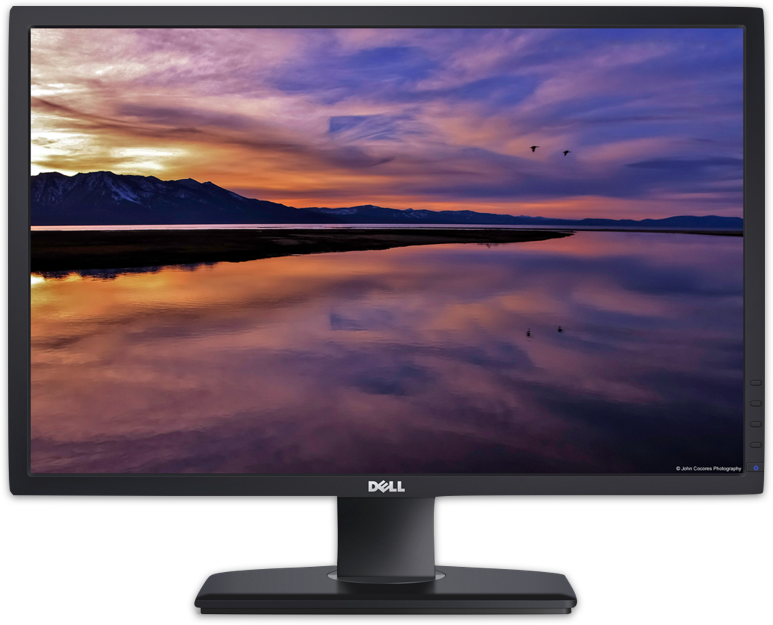
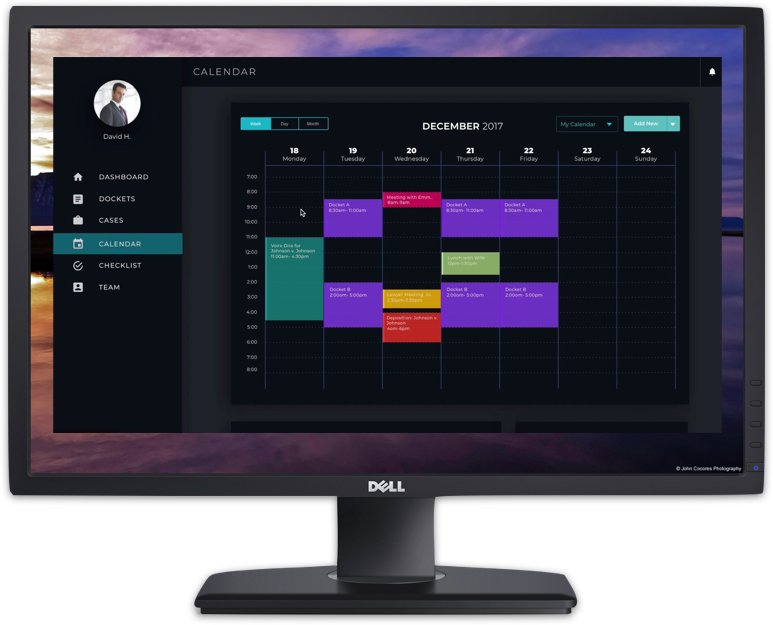
astraia 90% done

diff --git a/src/pages/astraia/index.js b/src/pages/astraia/index.js
@@ -177,6 +177,122 @@ const AstraiaPage = () => (
         </div>
       </section>
       <section className="segway">
+        <div className="finding-container">
+          <h4 className="finding-title">Finding One</h4>
+          <div className="finding-quote">
+          “It’s hard to manage and remember all that’s happening with cases”
+          </div>
+        </div>
+      </section>
+      <section className="flow-section one">
+        <div className="flow-container">
+          <div className="flow-image" style={{backgroundImage: `url(${FlowOneImage})`}}></div>
+          <div className="flow-description">
+            <h4 className="flow-title">Flow One: Adding a Case</h4>
+            <div className="flow-text">
+            <p>
+            Court clerks can work be working on upwards of 10 cases at a time and judges are working with multiple different court clerks all working on different cases. Both stakeholders are juggling multiple new cases as well as those that have been going on for years. This complex system of organizing and remembering multiple different cases, all at different parts of a trial, leads to forgetfulness and confusion between judges and court clerks. Which means valuable moments are being wasted, searching through files, remembering what the case is about, and figuring out where each case is on the timeline of a trial.
+            </p>
+            <p>
+            We made it easy and accessible for court clerks to add a case to Astraia. They can add references, tasks, notes, attach lawyers to the case and also give the ability to Judges to assign new cases to clerks of their choice.
+            </p>
+            </div>
+          </div>
+        </div>
+      </section>
+      <section className="segway">
+        <div className="finding-container">
+          <h4 className="finding-title">Finding Two</h4>
+          <div className="finding-quote" style={{ maxWidth: '943px'}}>
+          “It’s such a great way to communicate with my staff without having to send memos and paper back and forth while creating a really good trail so things don’t fall through the cracks.”
+          </div>
+        </div>
+      </section>
+      <section className="flow-section two">
+        <div className="flow-container">
+          <div className="flow-image" style={{backgroundImage: `url(${FlowTwoImage})`}}></div>
+          <div className="flow-description">
+            <h4 className="flow-title">Flow Two: Adding a Task</h4>
+            <div className="flow-text">
+            <p>
+            Creating a case is only part of the system of seamless communication and cutting down on wasted minutes. Some courts have already realized their need for checklist-like technology and have asked their IT departments to make custom checklist systems for them. The above quote is from Janet T. Neff, U.S. Western Michigan District Judge, explaining what a checklist helps her court accomplish. Out taks system allows tasks to be assigned to different stakeholders, prioritized, given due dates and added to specific cases so important information doesn’t fall through the cracks.
+            </p>
+            </div>
+          </div>
+        </div>
+      </section>
+      <section className="segway">
+        <div className="finding-container">
+          <h4 className="finding-title">Finding Three</h4>
+          <div className="finding-quote">
+          “Keeping track of references is essential because the use of reference databases are so expensive.”
+          </div>
+        </div>
+      </section>
+      <section className="flow-section three">
+        <div className="flow-container">
+          <div className="flow-image" style={{backgroundImage: `url(${FlowThreeImage})`}}></div>
+          <div className="flow-description">
+            <h4 className="flow-title">Flow Three: Adding a Reference to a Case</h4>
+            <div className="flow-text">
+            <p>
+            Interviewing a law clerk gave us insight into into their daily lives. Duties of a law clerk include researching cases and statutes, organizing that research into legal documents and then using those documents to write drafts with the corresponding judge. Learning that so much of their day involves researching on databases like LexisNexis and Westlaw, meant that it was imperative we gave law clerks the ability to add these references to cases and checklists. Searching on reference databases is one of the highest costs of the law and court system. By adding the ability to add a reference to a case, we assure that these references don’t get swept up in other trials, filings and memos, saving money for all parties involved.
+            </p>
+            </div>
+          </div>
+        </div>
+      </section>
+      <section className="segway">
+        <div className="finding-container">
+          <h4 className="finding-title">Finding Four</h4>
+          <div className="finding-quote">
+          “Not everyone is on the same page, meetings get changed or cancelled and people aren’t notified.”
+          </div>
+        </div>
+      </section>
+      <section className="flow-section four">
+        <div className="flow-container">
+          <div className="flow-image" style={{backgroundImage: `url(${FlowFourImage})`}}></div>
+          <div className="flow-description">
+            <h4 className="flow-title">Flow Four: Adding an Event to the Calendar</h4>
+            <div className="flow-text">
+            <p>
+            Communication was a common pain point that we frequently heard about in our primary research phase. One clerk told us that meetings often get changed, but not all parties are notified, meaning people showed up to wrong rooms, on different days or not at all. This confusion is yet another stressor within an already environment, adding to the decision fatigue judges and clerks already face during their long and tedious days.
+            </p>
+            <p>
+            Astraia gives clerks and judges the ability to add events to their calendar, notify stakeholders within the system of the event and also send invites to lawyers or other parties not within the system through the integration of email platforms like Microsoft Outlook. By having the calendar integrated into Astraia, judges and clerks can be reminded of what tasks need to be done before a meeting, be easily reminded what the case is corresponding to the specific meeting and update all parties involved seamlessly when something is changed.
+            </p>
+            </div>
+          </div>
+        </div>
+      </section>
+      <section className="reflections-section">
+        <div className="purple-spacer-container">
+          <div className="purple-spacer"></div>
+        </div>
+        <div className="reflections-container">
+          <span className="reflections-title">Reflections</span>
+          <span className="horizontal-line"></span>
+          <div className="article-container">
+            <h4 className="title">Future Steps</h4>
+            <p className="text">
+            There are barriers and obstacles when it comes to getting technology to be accepted in the court systems, and we we would address that by going to court coordinators and telling them about the benefit of our software, since they are the managers of their respective courts.
+            </p>
+            <p className="text">
+            We would also push for this to become responsive for tablets and phones, as well as automate case filings into the system so efficiency is maximized and manual input would no longer be required. The integration of LexisNexis, the premier reference database for lawyers and clerks would be an essential add to Astraia’s reference widget as well.
+            </p>
+            <p className="text">
+            Finally, we would add new roles to the system, for the court coordinator to oversee everything and help simplify their management tasks. Our goal would be to make a more robust communication application for the municipal courts.
+            </p>
+            <h4 className="title">Reflections</h4>
+            <p className="text">
+            My team and I set off in a very broad and intimidating challenge space and were able to find our way and create something we were proud of. Ideally, I wish we would have realized we were trying to tackle both a wicked problem, and a policy problem (implicit bias and decision fatigue) right away so we could have invested more time in interviewing and doing field study observations of court and law clerks. We were able to easily pivot when we realized we were looking in the wrong area, however, and made up for lost time.
+            </p>
+            <p className="text">
+            I personally loved this project space. I am interested in complex sociotechnical systems and how responsible design can help us incrementally change and respond to the historical problems we face in our society. This challenge space pushed me out of my comfort zone and forced me to understand how the sub system of the municipal court works within the larger judicial system of the United States.
+            </p>
+          </div>
+        </div>
       </section>
     </div>
 );

diff --git a/src/pages/astraia/_astraia.scss b/src/pages/astraia/_astraia.scss
@@ -77,6 +77,7 @@ $astraia-purple: #8338EC;
       .text {
         margin-top: 1em;
         font-size: 22px;
+        line-height: 32px;
       }
     }
   }
@@ -191,6 +192,7 @@ $astraia-purple: #8338EC;
 
         .text {
           font-size: 18px;
+          line-height: 29px;
         }
       }
     }
@@ -257,6 +259,7 @@ $astraia-purple: #8338EC;
 
         .text {
           font-size: 18px;
+          line-height: 29px;
           text-align: center;
         }
       }
@@ -269,43 +272,52 @@ $astraia-purple: #8338EC;
     .article-container {
       margin: 4em 8em;
 
+      h4 {
+        font-size: 28px;
+      }
+
       .text {
+        font-size: 18px;
         line-height: 29px;
       }
     }
   }
 
-  .insights-container {
-    position: relative;
-    height: 500px;
+  .insights-section {
+    height: 80vh;
 
-    .insights-description {
+    .insights-container {
       position: relative;
-      left: 50vw;
-      margin: 4em 0 4em 8em;
+      height: 500px;
 
-      .insights-title {
-        padding-top: 1em;
-        font-size: 28px;
+      .insights-description {
+        position: relative;
+        left: 50vw;
+        margin: 4em 0 4em 8em;
+
+        .insights-title {
+          padding-top: 1em;
+          font-size: 28px;
+        }
+
+        .insights-bullet-list {
+          margin-top: 1em;
+          max-width: 31vw;
+          font-size: 18px;
+          line-height: 29px;
+        }
       }
 
-      .insights-bullet-list {
-        margin-top: 1em;
-        max-width: 26vw;
-        font-size: 18px;
-        line-height: 29px;
+      .insights-image {
+        position: absolute;
+        top: 0;
+        bottom: 0;
+        left: 0;
+        width: 55vw;
+        background-repeat: no-repeat;
+        background-position: left;
+        background-size: cover;
       }
-    }
-
-    .insights-image {
-      position: absolute;
-      top: 0;
-      bottom: 0;
-      left: 0;
-      width: 55vw;
-      background-repeat: no-repeat;
-      background-position: left;
-      background-size: cover;
     }
   }
 
@@ -342,6 +354,98 @@ $astraia-purple: #8338EC;
         background-repeat: no-repeat;
         background-position: right;
         background-size: cover;
+      }
+    }
+  }
+
+  .finding-container {
+    padding-top: 2em;
+    text-align: center;
+
+    .finding-title {
+      font-size: 26px;
+    }
+
+    .finding-quote {
+      font-size: 36px;
+      max-width: 664px;
+      margin: 0 auto;
+      color: $astraia-purple;
+      font-weight: bold;
+    }
+  }
+
+  .flow-section {
+    height: auto;
+
+    .flow-container {
+      margin: 4em 8em;
+
+      .flow-image {
+        height: 609px;
+        background-repeat: no-repeat;
+        background-position: center;
+      }
+
+      .flow-description {
+        margin-top: 6em;
+
+        .flow-title {
+          font-size: 24px;
+        }
+
+        .flow-text {
+          font-size: 18px;
+          line-height: 29px;
+        }
+      }
+    }
+  }
+
+  .reflections-section {
+
+    .purple-spacer-container {
+      position: relative;
+      display: flex;
+      justify-content: center;
+      width: 100%;
+
+      .purple-spacer {
+        width: 150px;
+        height: 7px;
+        background: $astraia-purple;
+      }
+    }
+
+    .reflections-container {
+      margin: 6em 8em 4em;
+
+      .reflections-title {
+        margin-top: 4em;
+        font-size: 36px;
+        color: $astraia-purple;
+        font-weight: bold;
+      }
+
+      .horizontal-line {
+        display: inline-block;
+        width: 45px;
+        height: 1px;
+        margin-left: 1em;
+        margin-bottom: 0.3em;
+        background: #979797;
+      }
+
+      .article-container {
+        .title {
+          margin-top: 3em;
+          font-size: 24px;
+        }
+
+        .text {
+          font-size: 18px;
+          line-height: 29px;
+        }
       }
     }
   }

diff --git a/gatsby-node.js b/gatsby-node.js
@@ -4,6 +4,7 @@ const path = require('path')
 const { createFilePath } = require('gatsby-source-filesystem')
 
 exports.createPages = ({ graphql, boundActionCreators }) => {
+  return true;
   const { createPage } = boundActionCreators
 
   return new Promise((resolve, reject) => {

diff --git a/src/layouts/_layouts.scss b/src/layouts/_layouts.scss
@@ -9,4 +9,7 @@ section {
 
 body {
   font-size: 20px;
+  margin: 0;
+  max-width: 100vw;
+  overflow-x: hidden;
 }
